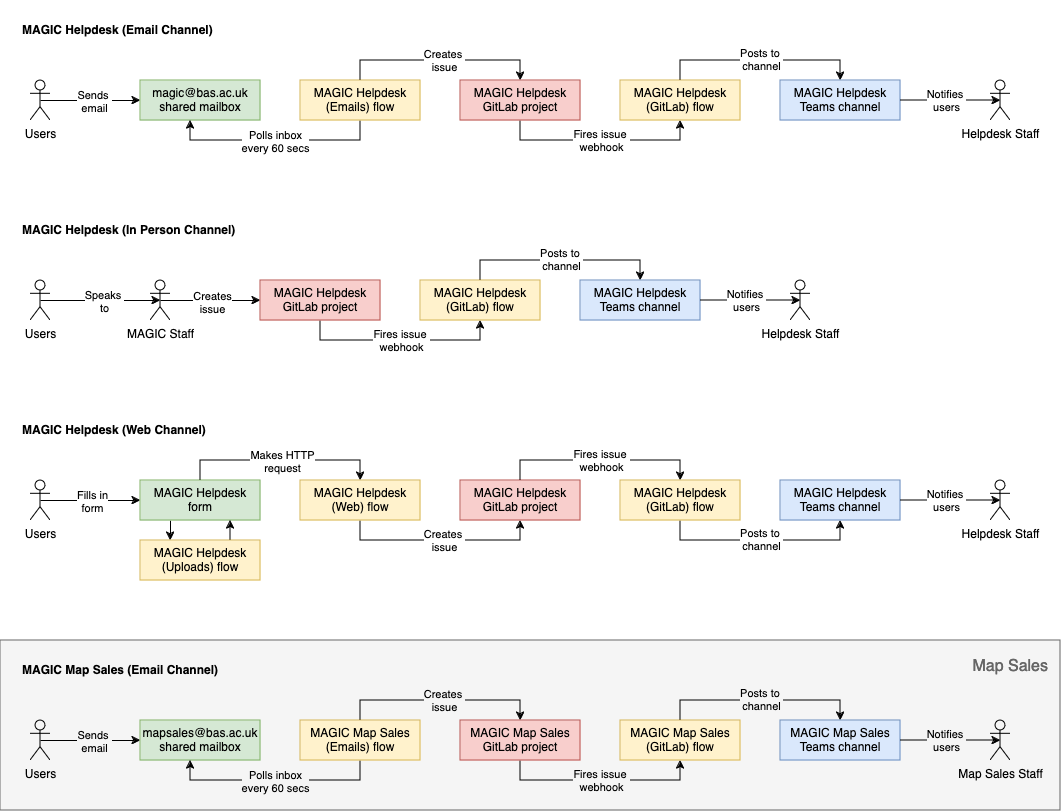
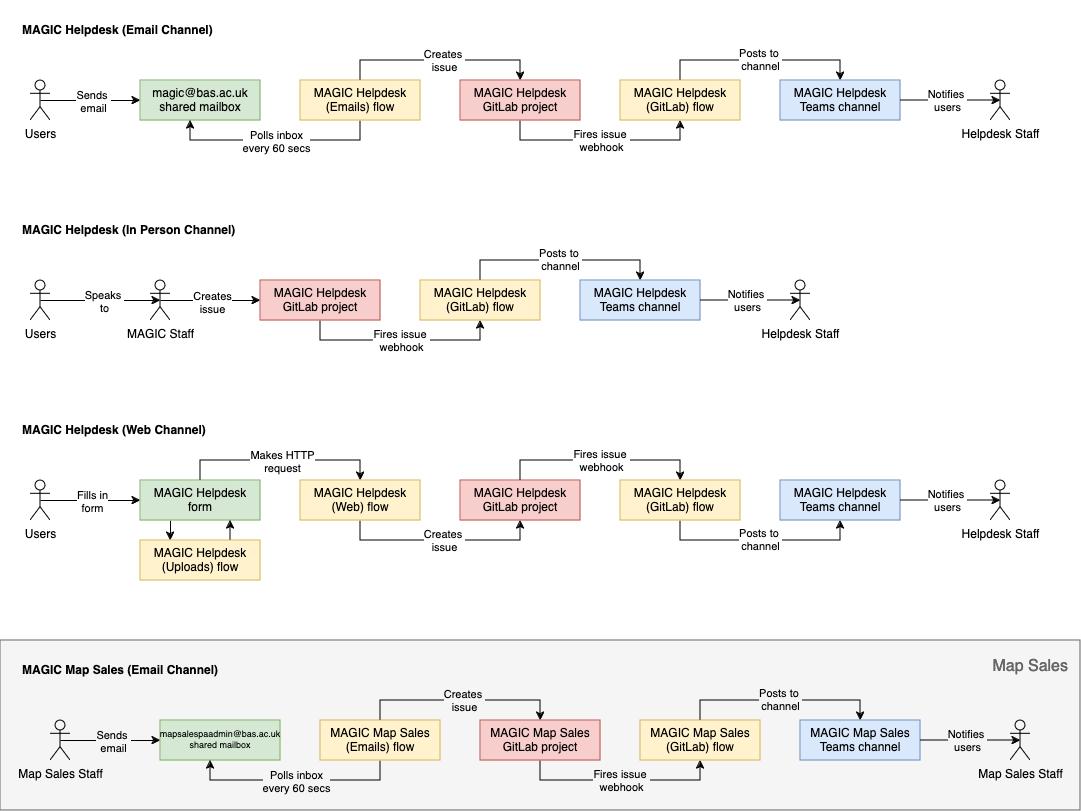
Updating docs

diff --git a/README.md b/README.md
@@ -31,9 +31,9 @@ Users can submit map sales orders to MAGIC via a supported [Communications chann
 
 * [email](#email): by contacting [mapsales@bas.ac.uk](mailto:mapsales@bas.ac.uk)
 
-Orders are added as GitLab issues in the [Map Sales 🛡](https://gitlab.data.bas.ac.uk/MAGIC/map-sales) 
-project and then notifies members of the 
-[Map Sales channel 🔒](https://teams.microsoft.com/l/channel/19%3A50f084c4a1fa4762a08519e6c8d3addb%40thread.skype) 
+Relevant emails are manually forwarded to the `mapsalespaadmin@bas.ac.uk` account. Emails to this account are added 
+as GitLab issues in the [Map Sales 🛡](https://gitlab.data.bas.ac.uk/MAGIC/map-sales), which then notifies members of 
+the  [Map Sales channel 🔒](https://teams.microsoft.com/l/channel/19%3A50f084c4a1fa4762a08519e6c8d3addb%40thread.skype) 
 in the MAGIC Microsoft Team.
 
 ### Access
@@ -58,7 +58,8 @@ Emails sent to the `magic@bas.ac.uk` mailbox trigger a Power Automate flow which
 
 **Note:** Microsoft Outlook's inbuilt spam protection is used to filter unwanted messages from being processed.
 
-**Note:** For Map Sales, a similar Power Automate flow is run linked to the Map Sales shared inbox and GitLab project.
+**Note:** For Map Sales, a similar Power Automate flow is run linked to the Map Sales Admin 
+(`mapsalespaadmin@bas.ac.uk`) inbox and Map Sales GitLab project.
 
 ### Web
 
@@ -135,9 +136,9 @@ relevant components such as shared mailboxes.
 Microsoft Office 365 Exchange shared mailboxes assigned to MAGIC:
 
 * `basmagic@bas.ac.uk` and `magic@bas.ac.uk` (latter is an alias name and is preferred over real name)
-* `mapsales@bas.ac.uk` (used for [Map Sales](#map-sales) project)
+* `mapsales@bas.ac.uk` and `mapsalespaadmin@bas.ac.uk` (separate accounts, used for [Map Sales](#map-sales) project)
 
-These mailboxes are owned by Andrew and administered by @lauger and others that monitor the Helpdesk / Map Sales.
+These mailboxes are administered by @lauger and others that monitor the Helpdesk / Map Sales.
 
 Delegated access to these mailboxes can be requested via the BAS IT Service Desk and is needed to view attachments, 
 flag spam messages, etc.

diff --git a/CHANGELOG.md b/CHANGELOG.md
@@ -9,12 +9,14 @@ and this project adheres to [Semantic Versioning](http://semver.org/spec/v2.0.0.
 
 ### Changed [BREAKING!]
 
-* Reimplementing helpdesk to use Microsoft flow for web form submissions and file uploads
-* Update link to SharePoint page
+* Rebuilding all flows to use the BAS IT Power Automate account and sending notifications to teams
+* Link to SharePoint page
 
 ### Added
 
 * closed for holidays maintenance page
+
+## [2.0.0] - 2023-07-10
 
 ### Fixed
 
